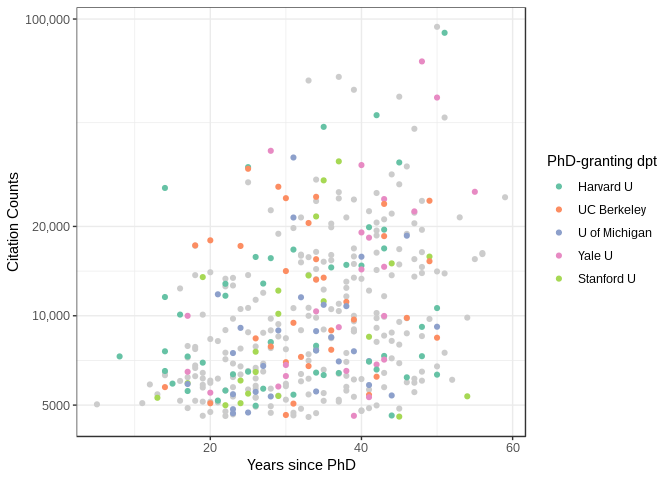
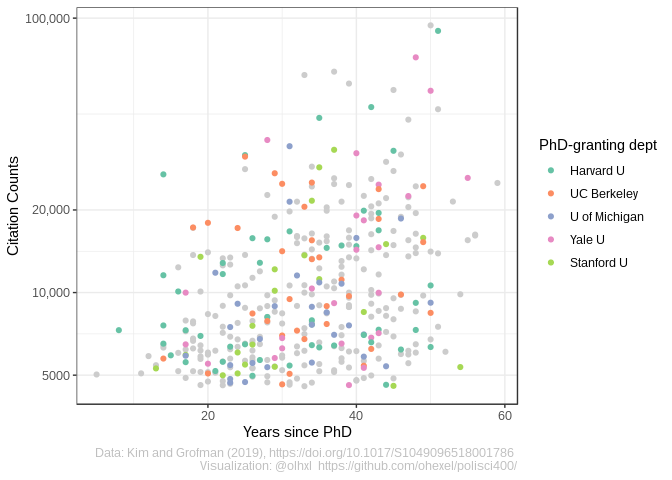
Fix pdf name. Add caption to plot of top5 PhD-granting depts.

diff --git a/polisci400.md b/polisci400.md
@@ -38,7 +38,7 @@ library(ggrepel)
 # I assume that the script and the pdf are in the same directory. Adjust
 # accordingly, using setwd() or here() as you prefer. Beware the wrath of Jenny
 # Bryan: https://www.tidyverse.org/articles/2017/12/workflow-vs-script/.
-txt <- pdf_text("polsci400.pdf")
+txt <- pdf_text("polisci400.pdf")
 ft <- strsplit(txt, "\\n")
 ```
 
@@ -204,14 +204,16 @@ ft2$uphd2 <- factor(ft2$uphd2, levels = topfive)
 p2 <- ggplot(data = ft2, aes(x = phdago, y = citecount, color = uphd2)) +
     geom_point(data = subset(ft2, is.na(uphd2)), color = "grey80") +
     geom_point(data = subset(ft2, !is.na(uphd2))) +
-    xlab("Years since PhD") +
-    ylab("Citation Counts") +
+    labs(x = "Years since PhD",
+         y = "Citation Counts",
+         caption = "Data: Kim and Grofman (2019), https://doi.org/10.1017/S1049096518001786 \n Visualization: @olhxl  https://github.com/ohexel/polisci400/") +
     scale_color_brewer(palette = "Set2") +
     scale_y_log10(breaks = c(5000,10000,20000,500000,100000),
                   #labels = c("5*10^3","10^4","2*10^4","5*10^4","10^5")) +
                   labels = c("5000","10,000","20,000","50,000","100,000")) +
-    guides(color = guide_legend(title = "PhD-granting dpt")) +
-    theme_bw()
+    guides(color = guide_legend(title = "PhD-granting dept")) +
+    theme_bw() +
+    theme(plot.caption = element_text(colour = "grey", size = 9))
 p2
 ```
 
